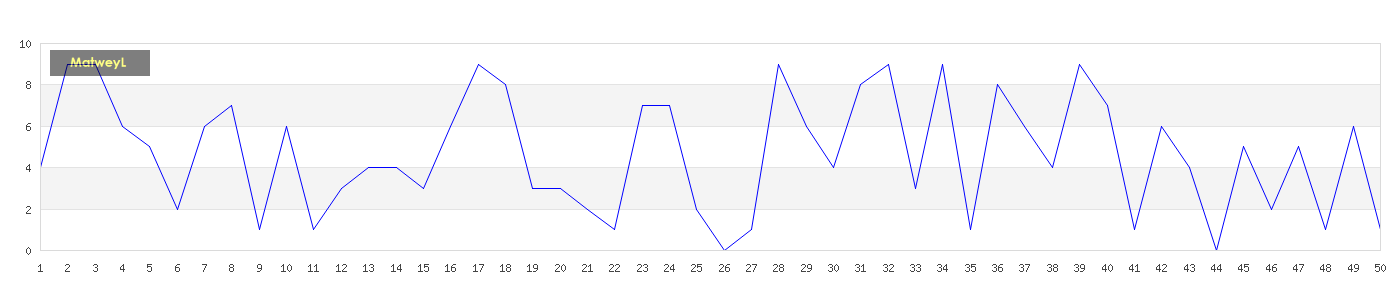
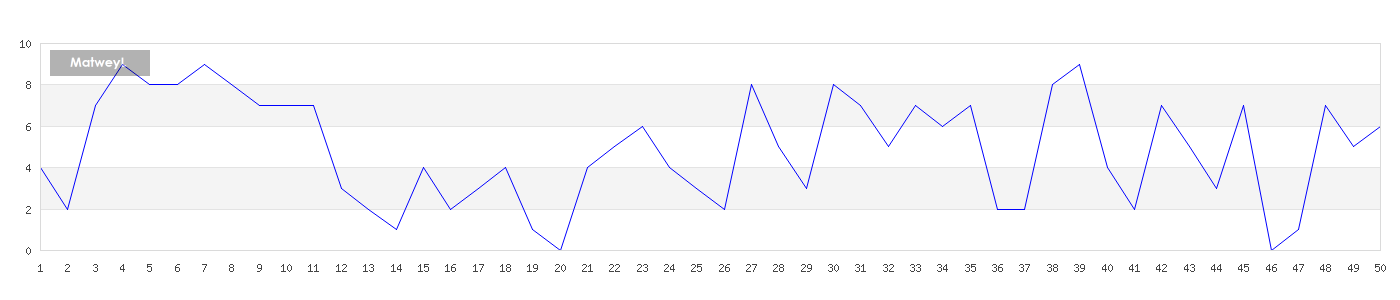
before checkout

diff --git a/php/content/faker/watermark.php b/php/content/faker/watermark.php
@@ -8,28 +8,28 @@ function add_watermark($image)
     $image1 = imagecreatefromstring(file_get_contents($image1));
     $image2 = imagecreatefromstring(file_get_contents($image2));
 
-    imagealphablending($image2, false);
-    imagesavealpha($image2, true);
-    $alpha = round(127/255*127); // convert to [0-127]
+//    imagealphablending($image2, false);
+//    imagesavealpha($image2, true);
+//    $alpha = round(127/255*127); // convert to [0-127]
+//
+//    for ($x = 0; $x < $width; $x++) {
+//        for ($y = 0; $y < $height; $y++) {
+//
+//            // get current color (R, G, B)
+//            $rgb = imagecolorat($image2, $x, $y);
+//            $r = ($rgb >> 16) & 0xff;
+//            $g = ($rgb >> 8) & 0xff;
+//            $b = $rgb & 0xf;
+//
+//            // create new color
+//            $col = imagecolorallocatealpha($image2, $r, $g, $b, $alpha);
+//
+//            // set pixel with new color
+//            imagesetpixel($image2, $x, $y, $col);
+//        }
+//    }
 
-    for ($x = 0; $x < $width; $x++) {
-        for ($y = 0; $y < $height; $y++) {
 
-            // get current color (R, G, B)
-            $rgb = imagecolorat($image2, $x, $y);
-            $r = ($rgb >> 16) & 0xff;
-            $g = ($rgb >> 8) & 0xff;
-            $b = $rgb & 0xf;
-
-            // create new color
-            $col = imagecolorallocatealpha($image2, $r, $g, $b, $alpha);
-
-            // set pixel with new color
-            imagesetpixel($image2, $x, $y, $col);
-        }
-    }
-
-
-    imagecopy($image1, $image2, 50, 50, 0, 0, $width, $height);
+    imagecopymerge($image1, $image2, 50, 50, 0, 0, $width, $height,30);
     imagepng($image1, $image);
 }

diff --git a/php/content/faker/generator.php b/php/content/faker/generator.php
@@ -11,7 +11,7 @@ function generate_data()
     // for include russian PersonName
     $faker->addProvider(new Faker\Provider\ru_RU\Person($faker));
     $faker->addProvider(new Faker\Provider\ru_RU\Company($faker));
-    $faker->addProvider(new Faker\Provider\ru_RU\Color($faker));
+#    $faker->addProvider(new Faker\Provider\ru_RU\Color($faker));
 
     // generate 50 records
     for ($i = 0; $i < 50; $i++) {
